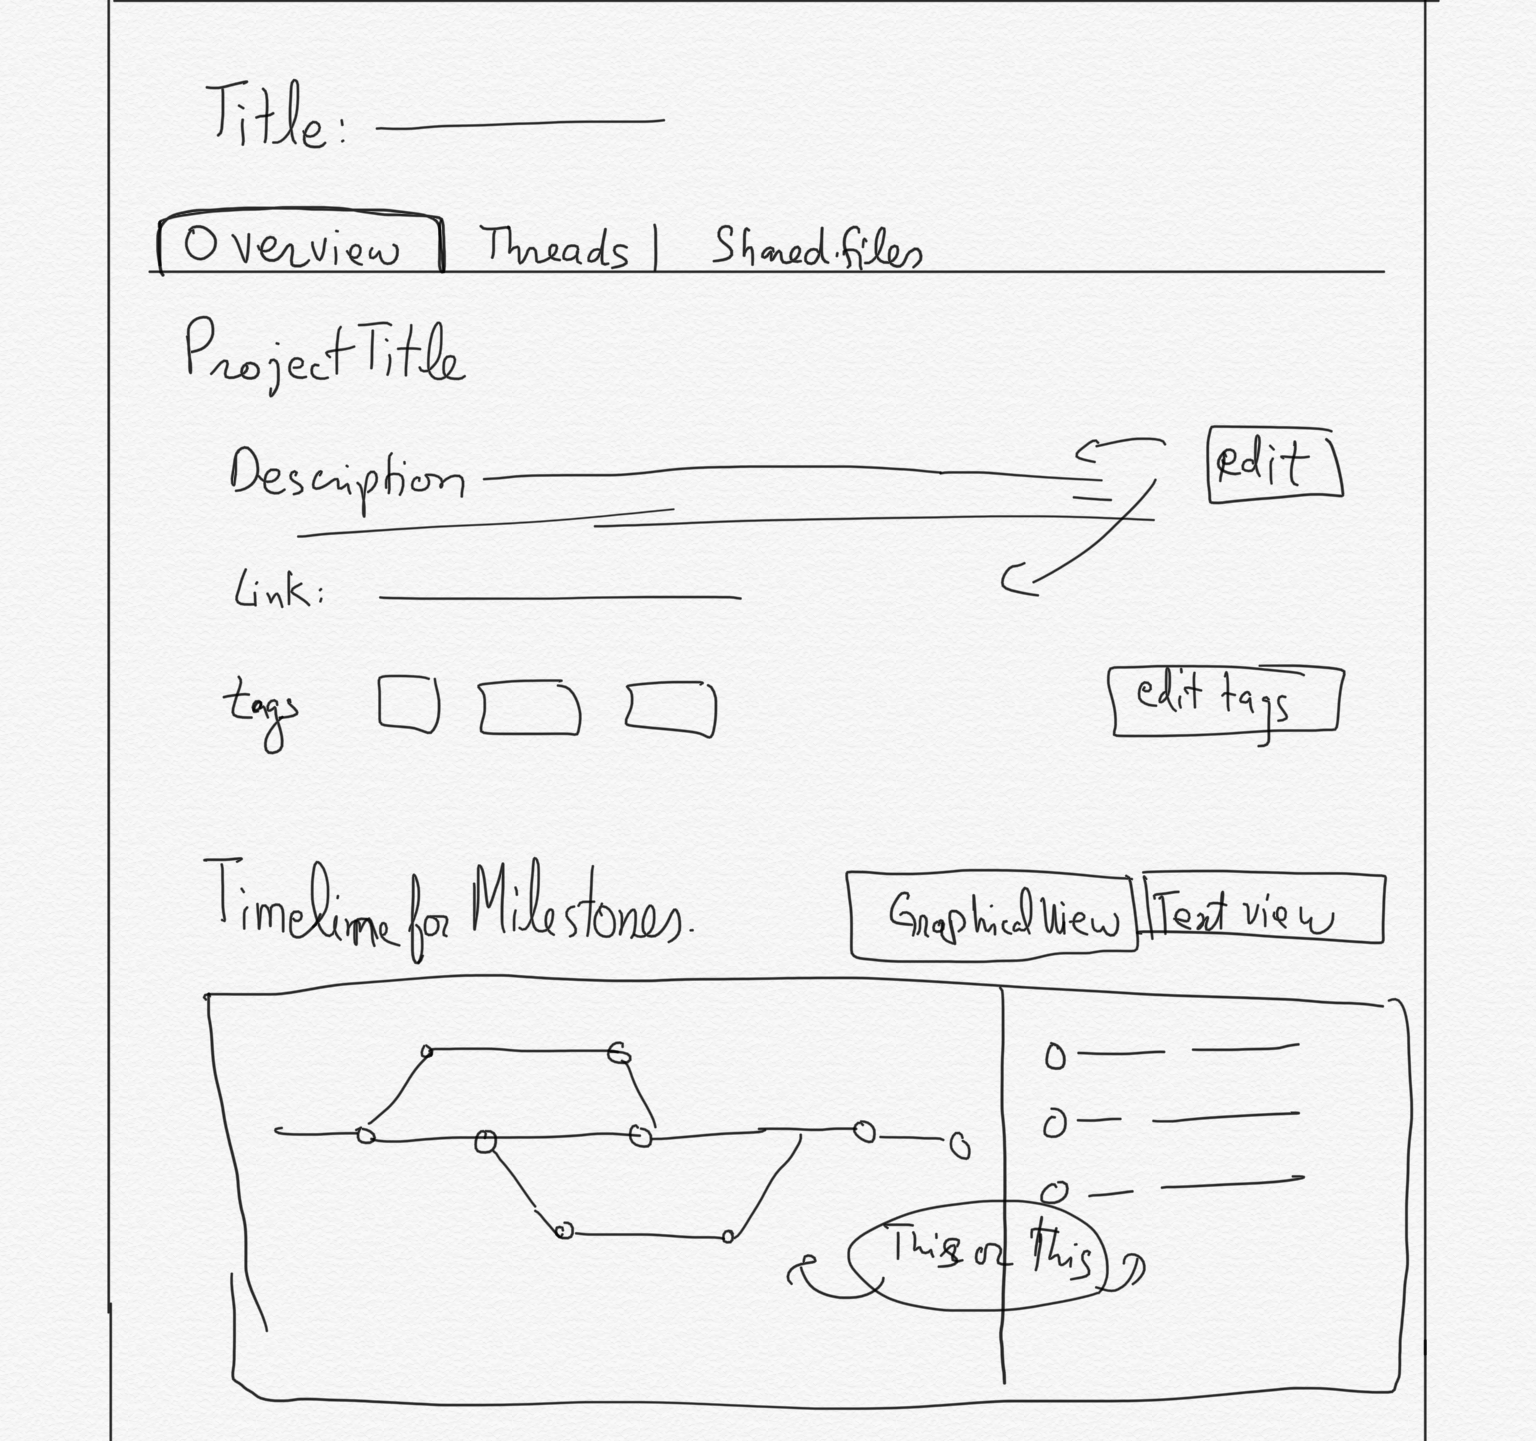
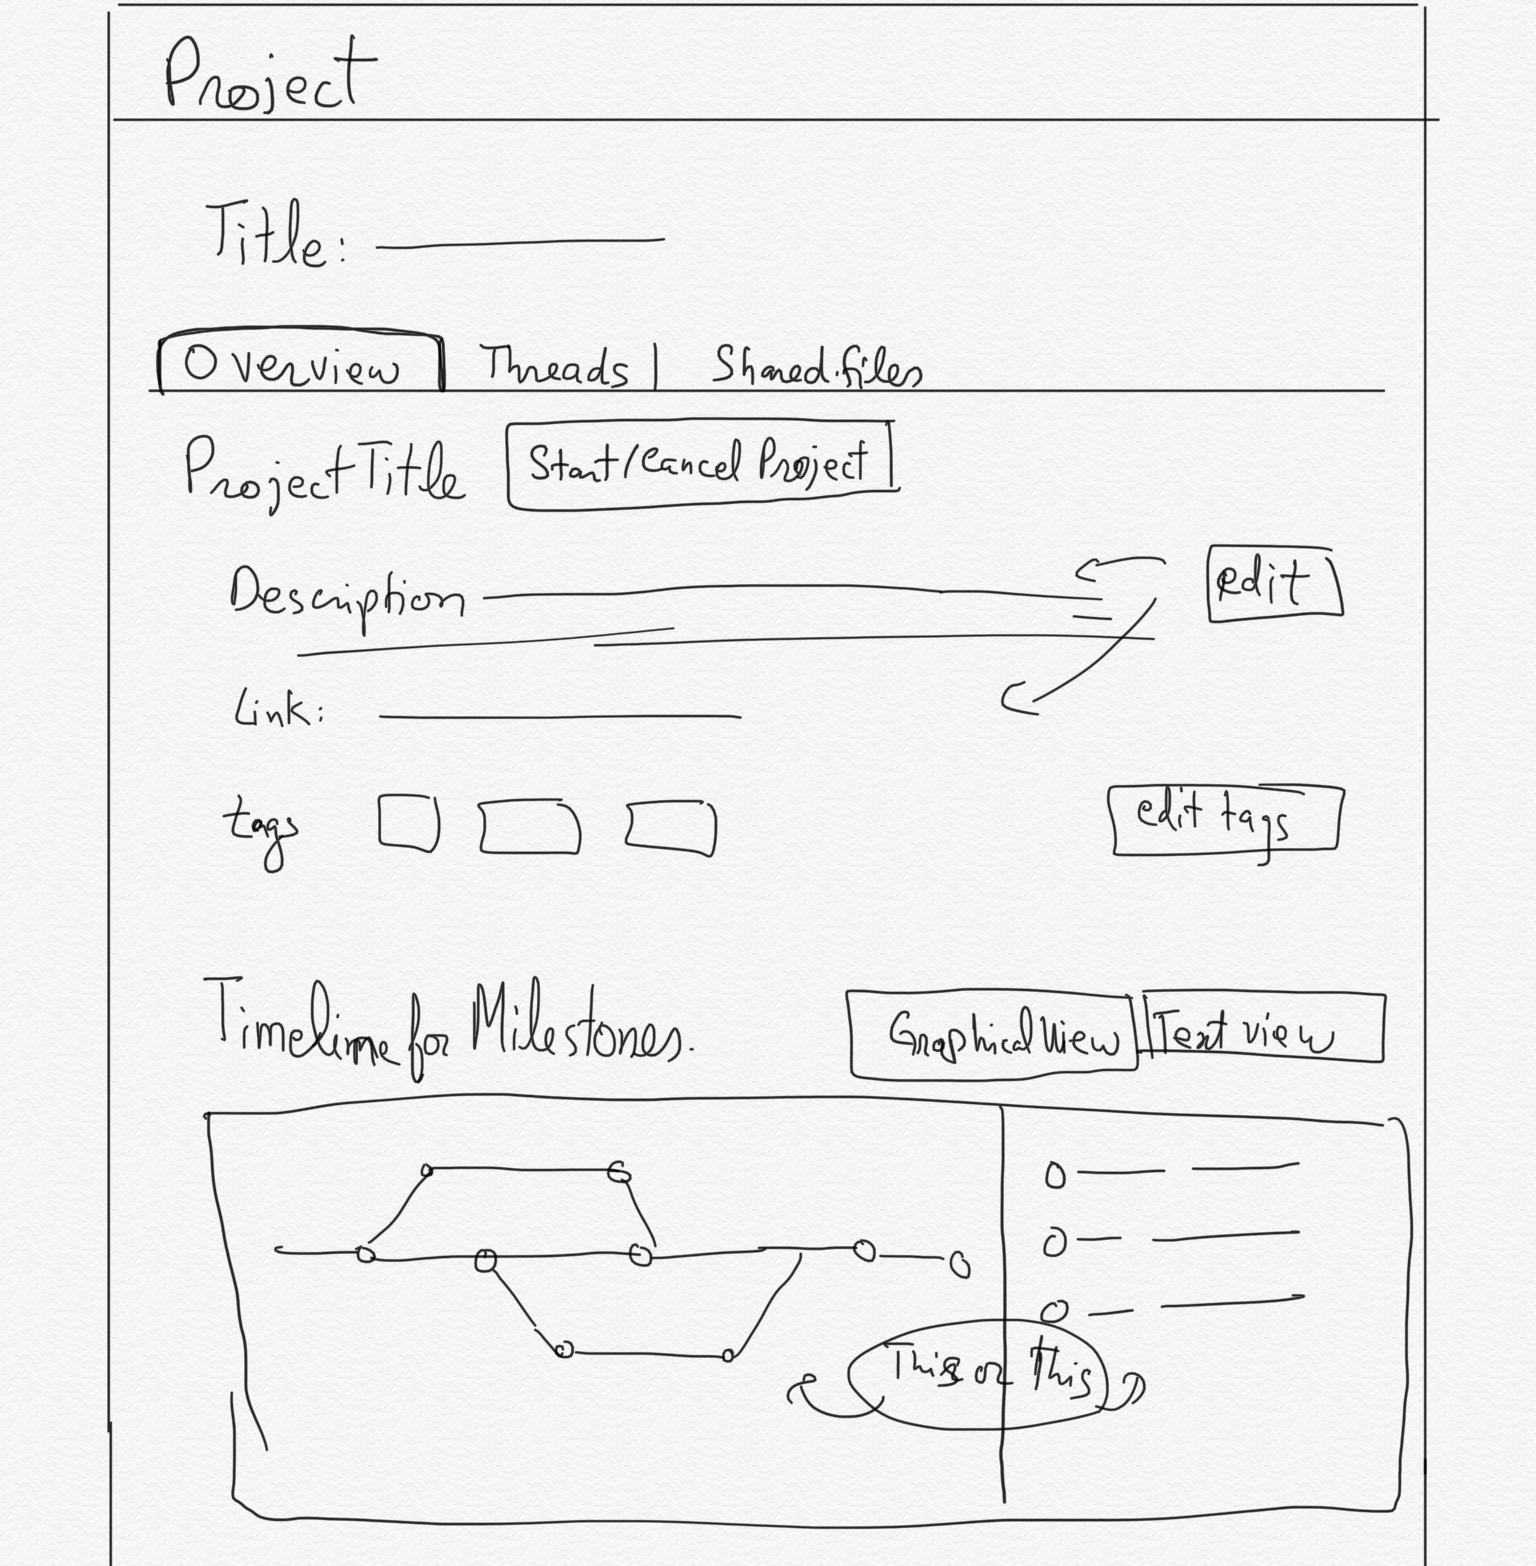
models added

diff --git a/README.md b/README.md
@@ -160,24 +160,111 @@ The setup instructions assume that you're using [Git Bash](https://git-scm.com/)
 - [ ] Timeline component
 - [ ] Rate stars component
 - [ ] Chat box component
-- [ ]
+
+User
+![Site preview](./READMEdocs/user_p.png)
+![Site preview](./READMEdocs/user_n.png)
+![Site preview](./READMEdocs/user_r.png)
+
+Search Project
+![Site preview](./READMEdocs/searchProject.png)
+
+Project (start project)
+![Site preview](./READMEdocs/project_o.png)
+![Site preview](./READMEdocs/project_o1.png)
+![Site preview](./READMEdocs/project_t.png)
+![Site preview](./READMEdocs/project_s.png)
 
 **Models:**
 
-- [ ] Student data model
-- [ ] Teacher/Supervisor data model
-- [ ] Milestone data model
-- [ ] Timeline data Model
+- [ ] User data model
 
   ```json
   {
-    "timeline": [
-      {
-        "id": "Type: Number",
-        "created_at": "Type: Date",
-        "updated_at": "Type: Date"
-      }
-    ]
+    "user": {
+      "id": "Type: Number",
+      "created_at": "Type: Date",
+      "name": "",
+      "bio": "",
+      "qualification": "",
+      "category": "",
+      "notifications": "virtual",
+      "requests": "virtual"
+    }
+  }
+  ```
+
+* [ ] Requests data model
+
+  ```json
+  {
+    "request": {
+      "id": "Type: Number",
+      "created_at": "Type: Date",
+      "from": "sender_id",
+      "to": "receiver_id",
+      "for": "project_id",
+      "status": "accepted, rejected, pending"
+    }
+  }
+  ```
+
+- [ ] Notifications data model
+
+  ```json
+  {
+    "notification": {
+      "id": "Type: Number",
+      "created_at": "Type: Date",
+      "link": "",
+      "description": "",
+      "user_id": "for user"
+    }
+  }
+  ```
+
+* [ ] Milestone data model
+
+  ```json
+  {
+    "milestone": {
+      "id": "Type: Number",
+      "created_at": "Type: Date",
+      "start_day": "",
+      "end_day": "",
+      "total_days": "end_day - start_day",
+      "title": "",
+      "description": "",
+      "is_achieved": "false default",
+      "rating": " ",
+      "project_id": "for project"
+    }
+  }
+  ```
+
+- [ ] Conversation data model
+
+  ```json
+  {
+    "thread": {
+      "id": "Type: Number",
+      "created_at": "Type: Date",
+      "project_id": "for project",
+      "message": "",
+      "user_id": "from user"
+    }
+  }
+  ```
+
+  ```json
+  {
+    "reply": {
+      "id": "Type: Number",
+      "created_at": "Type: Date",
+      "thread_id": "for thread",
+      "message": "",
+      "user_id": "from user"
+    }
   }
   ```
 
@@ -185,20 +272,20 @@ The setup instructions assume that you're using [Git Bash](https://git-scm.com/)
 
   ```json
   {
-    "projects": [
-      {
-        "id": "Type: Number",
-        "created_at": "Type: Date",
-        "updated_at": "Type: Date",
-        "fyp_title": "Type: String",
-        "supervisor": "Type: String <Teacher Name who created the porject>",
-        "team_members": "Type: List <List of Students who's requests got accepted by supervisor>",
-        "fyp_desc": "Type: String <Description of Project",
-        "timeline": "Type: Object <to be updated later>",
-        "milestones": "Type: List <to be updated later>",
-        "fyp_tag": "Type: List [] <List of searchable lowercased words>"
-      }
-    ]
+    "project": {
+      "id": "Type: Number",
+      "created_at": "Type: Date",
+      "starting_date": "Type: Date. from this date progress will be started calculating",
+      "title": "Type: String",
+      "description": "",
+      "link": "",
+      "tags": "",
+      "milestones": "virtual",
+      "user_id": "owner of project",
+      "team": "id's of collaborators",
+      "threads": "virtual",
+      "progress": "calculation from milestones"
+    }
   }
   ```
 
